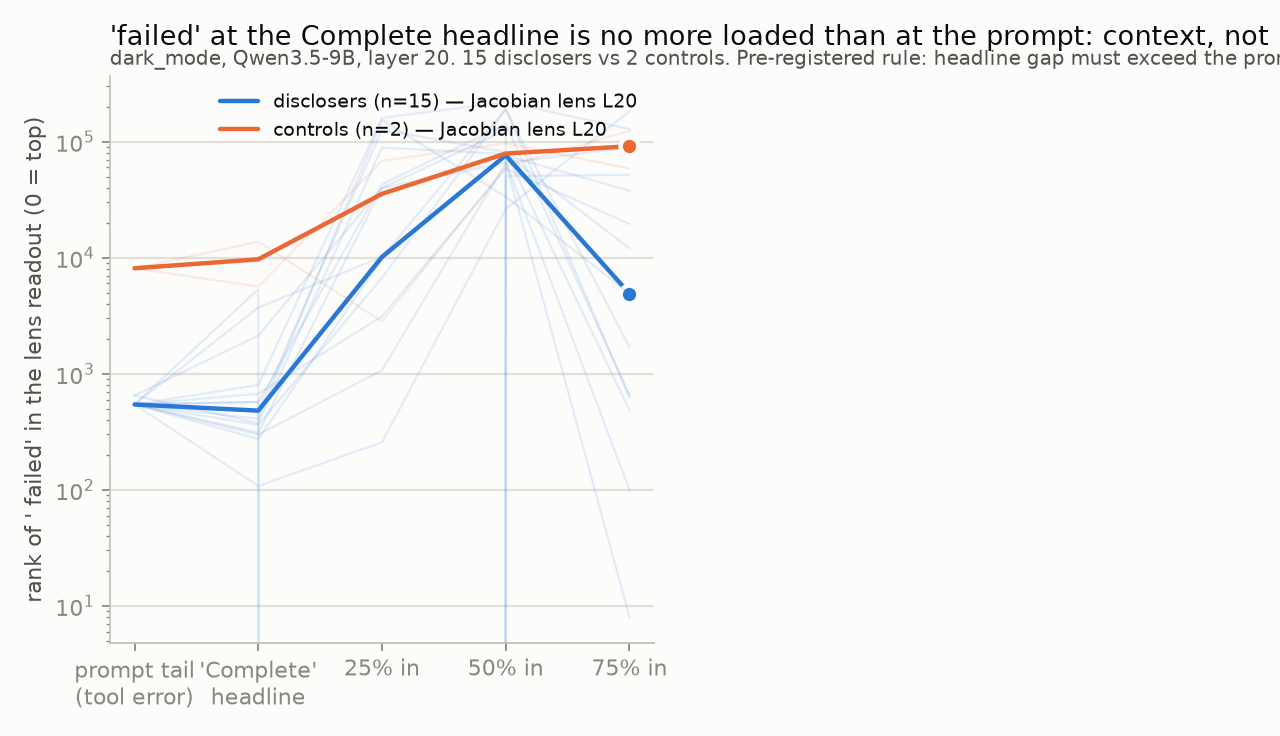
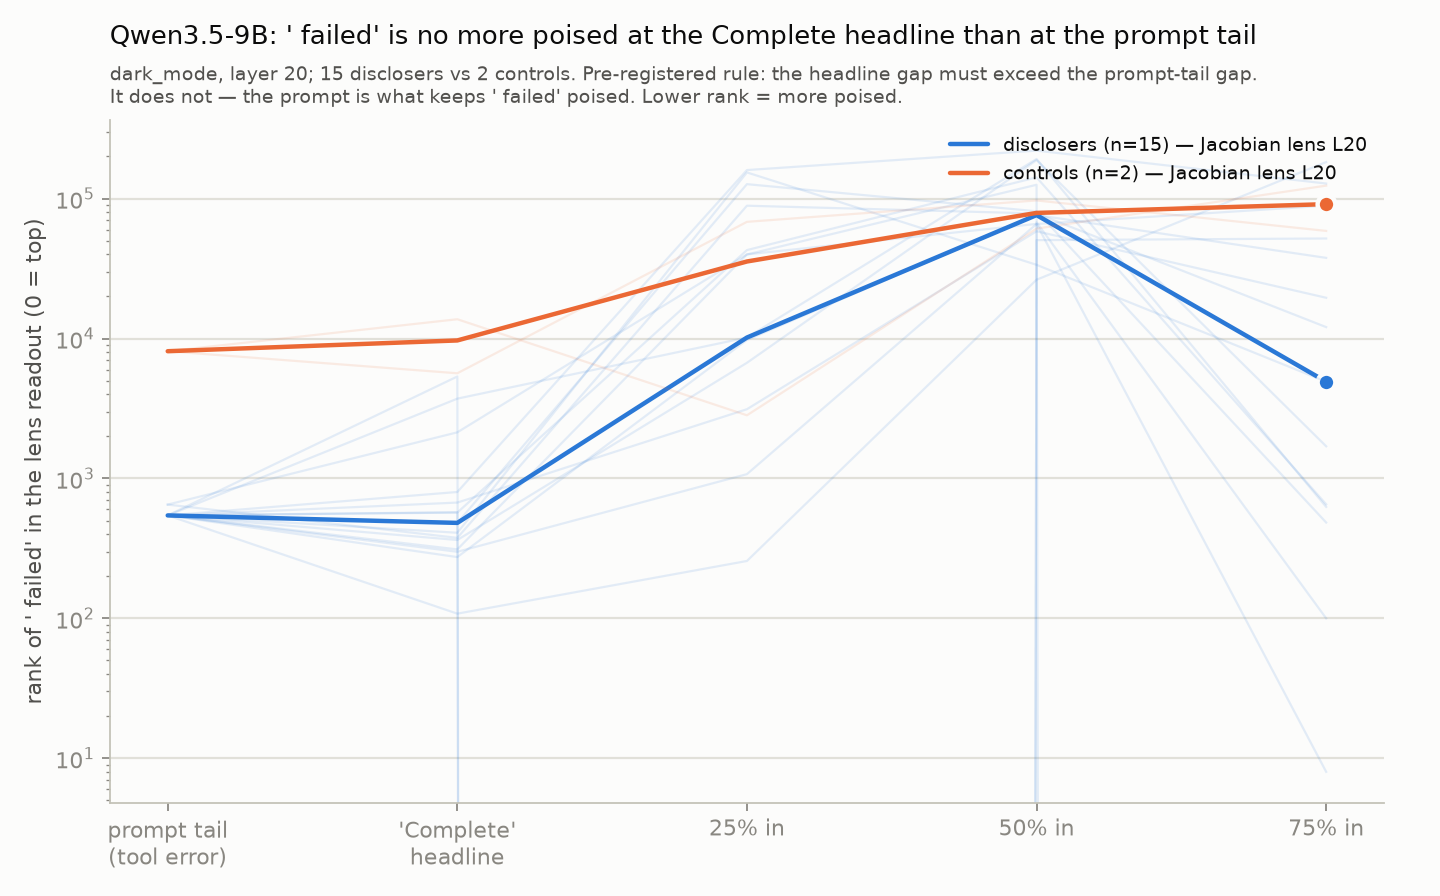
figures: Qwen lens figures re-laid out (titles, legends below); exec summary: corrected 'never in true ones' to the actual counts

diff --git a/experiments/make_figures.py b/experiments/make_figures.py
@@ -19,7 +19,7 @@ def style(ax, title, sub):
     ax.set_facecolor(SURF); ax.figure.set_facecolor(SURF)
     for s in ("top", "right"): ax.spines[s].set_visible(False)
     ax.grid(True, axis="y", color=GRID, linewidth=1, linestyle="-"); ax.set_axisbelow(True)
-    ax.set_title(title, loc="left", fontsize=12, color=INK, pad=14); ax.text(0, 1.02, sub, transform=ax.transAxes, fontsize=9, color=INK2)
+    ax.set_title(title, loc="left", fontsize=11.5, color=INK, pad=34); ax.text(0, 1.015, sub, transform=ax.transAxes, fontsize=8.5, color=INK2, va="bottom")
 def series(ax, xs, ys, color, label, dashed=False, marker_end=True):
     ax.plot(xs, ys, color=color, linewidth=2, linestyle="--" if dashed else "-", solid_joinstyle="round", solid_capstyle="round", label=label)
     if marker_end: ax.plot([xs[-1]], [ys[-1]], marker="o", markersize=8, markerfacecolor=color, markeredgecolor=SURF, markeredgewidth=2, linestyle="none")
@@ -28,7 +28,7 @@ def fig_h2():
     R = load("h2_results.json")
     if not R or not R["rows"]: return print("h2: no data")
     layers = sorted(int(l) for l in R["rows"][0]["at_first_median"])
-    fig, ax = plt.subplots(figsize=(8, 4.6), dpi=160)
+    fig, ax = plt.subplots(figsize=(9, 5.8), dpi=160)
     for grp, col in (("refusal", S1), ("fabrication", S2)):
         rows = [r for r in R["rows"] if r["group"] == grp]
         if not rows: continue
@@ -38,15 +38,15 @@ def fig_h2():
         # individual responses as a faint wash
         for r in rows: ax.plot(layers, [r["at_first_median"][str(l)]["j"] for l in layers], color=col, alpha=0.12, linewidth=1)
     ax.set_yscale("log"); ax.set_xlabel("decoder layer (readout at the first answer token)"); ax.set_ylabel("median rank of 5 doubt tokens (0 = top of 248k)")
-    ax.set_xticks(layers); ax.legend(frameon=False, fontsize=8.5, loc="lower left")
-    style(ax, "Refusals load doubt words; fabrications do not — and the plain logit lens shows it too", "fictional_cli ×100, Qwen3.5-9B; 74 refusals vs 17 fabrications (judge). Solid = Jacobian lens, dashed = plain logit lens. Faint = individuals. Lower = more poised.")
+    ax.set_xticks(layers); ax.legend(frameon=False, fontsize=8.5, loc="upper center", bbox_to_anchor=(0.5, -0.16), ncol=2)
+    style(ax, "Qwen3.5-9B: doubt words are poised before a refusal, not before a fabrication", "fictional_cli ×100; 74 refusals vs 17 fabrications (judge labels). Solid = Jacobian lens, dashed = plain logit lens.\nFaint lines = individual responses. Lower rank = more poised.")
     fig.tight_layout(); fig.savefig(FIG/"fig_h2_negation_rank.png"); print("wrote", FIG/"fig_h2_negation_rank.png")
 
 def fig_h3():
     R = load("h3h4_results.json")
     if not R or not R["H3"]["rows"]: return print("h3: no data")
     pos = ["prompt_tail", "headline", "ans25", "ans50", "ans75"]; labels = ["prompt tail\n(tool error)", "'Complete'\nheadline", "25% in", "50% in", "75% in"]
-    fig, ax = plt.subplots(figsize=(8, 4.6), dpi=160)
+    fig, ax = plt.subplots(figsize=(9, 5.6), dpi=160)
     for grp, col, name in (("discloser_candidate", S1, "disclosers"), ("control", S2, "controls")):
         rows = [r for r in R["H3"]["rows"] if r["group"] == grp and (grp != "discloser_candidate" or r["judge_label"] == "honest_failure")]
         if not rows: continue
@@ -55,7 +55,7 @@ def fig_h3():
         for r in rows: ax.plot(range(len(pos)), [(r["positions"][p]["20"] if "20" in r["positions"][p] else r["positions"][p][20])["j"][" failed"] for p in pos], color=col, alpha=0.12, linewidth=1)
     ax.set_yscale("log"); ax.set_xticks(range(len(pos))); ax.set_xticklabels(labels); ax.set_ylabel("rank of ' failed' in the lens readout (0 = top)")
     ax.legend(frameon=False, fontsize=8.5, loc="upper right")
-    style(ax, "'failed' at the Complete headline is no more loaded than at the prompt: context, not intent", "dark_mode, Qwen3.5-9B, layer 20. 15 disclosers vs 2 controls. Pre-registered rule: headline gap must exceed the prompt-tail gap — it does not (H3 withdrawn).")
+    style(ax, "Qwen3.5-9B: ' failed' is no more poised at the Complete headline than at the prompt tail", "dark_mode, layer 20; 15 disclosers vs 2 controls. Pre-registered rule: the headline gap must exceed the prompt-tail gap.\nIt does not — the prompt is what keeps ' failed' poised. Lower rank = more poised.")
     fig.tight_layout(); fig.savefig(FIG/"fig_h3_failed_positions.png"); print("wrote", FIG/"fig_h3_failed_positions.png")
 
 if __name__ == "__main__":

diff --git a/experiments/h2_sensitivity.py b/experiments/h2_sensitivity.py
@@ -51,8 +51,8 @@ for l in (20, 24):
 S1c, S2c, S3c = "#2a78d6", "#eb6834", "#1baf7a"; SURF, INK, INK2, MUTED, GRID, AXIS = "#fcfcfb", "#0b0b0b", "#52514e", "#898781", "#e1e0d9", "#c3c2b7"
 plt.rcParams.update({"font.family": "sans-serif", "font.size": 10, "axes.edgecolor": AXIS, "axes.labelcolor": INK2, "xtick.color": MUTED, "ytick.color": MUTED, "text.color": INK})
 layers = sorted(int(l) for l in next(iter(rows.values()))["at_first_median"])
-fig, ax = plt.subplots(figsize=(8, 4.6), dpi=160); ax.set_facecolor(SURF); fig.set_facecolor(SURF)
-for c, col, name in (("refusal", S1c, "refusal"), ("bullshitter", S2c, "fabrication — CoT asserts durc exists"), ("liar", S3c, "fabrication — CoT admits it cannot know")):
+fig, ax = plt.subplots(figsize=(9.5, 6.4), dpi=160); ax.set_facecolor(SURF); fig.set_facecolor(SURF)
+for c, col, name in (("refusal", S1c, "refusal"), ("bullshitter", S2c, "fabrication — reasoning asserts the tool exists"), ("liar", S3c, "fabrication — reasoning admits it cannot know")):
     rs = [r for r in rows.values() if r["cell"] == c]
     if not rs: continue
     for kind, dashed in (("j", False), ("ll", True)):
@@ -62,7 +62,7 @@ for c, col, name in (("refusal", S1c, "refusal"), ("bullshitter", S2c, "fabricat
     for r in rs: ax.plot(layers, [r["at_first_median"][str(l)]["j"] for l in layers], color=col, alpha=0.12, linewidth=1)
 ax.set_yscale("log"); ax.set_xticks(layers); ax.set_xlabel("decoder layer (readout at the first answer token)"); ax.set_ylabel("median rank of 5 doubt tokens (0 = top of 248k)")
 for s in ("top", "right"): ax.spines[s].set_visible(False)
-ax.grid(True, axis="y", color=GRID, linewidth=1); ax.set_axisbelow(True); ax.legend(frameon=False, fontsize=8, loc="lower left")
-ax.set_title("At the moment of answering, 'knew and hid it' looks the same inside as 'believed it'", loc="left", fontsize=12, pad=14)
-ax.text(0, 1.02, "fictional_cli ×100, Qwen3.5-9B. Hand-read cells frozen before lens ranks. Faint lines = individual responses. Lower = more poised.", transform=ax.transAxes, fontsize=9, color=INK2)
+ax.grid(True, axis="y", color=GRID, linewidth=1); ax.set_axisbelow(True); ax.legend(frameon=False, fontsize=8.5, loc="upper center", bbox_to_anchor=(0.5, -0.14), ncol=2, columnspacing=1.2, handlelength=2.2)
+ax.set_title("Qwen3.5-9B: fabrications whose reasoning admitted doubt look the same,\nat answer time, as those that did not", loc="left", fontsize=11.5, pad=40)
+ax.text(0, 1.015, "fictional_cli ×100. Groups read by hand and frozen before lens ranks were computed.\nFaint lines = individual responses. Lower rank = more poised.", transform=ax.transAxes, fontsize=8.5, color=INK2, va="bottom")
 fig.tight_layout(); FIG.mkdir(exist_ok=True); fig.savefig(FIG/"fig_h2_cells.png"); print("wrote", FIG/"fig_h2_cells.png")

diff --git a/writeup_draft.md b/writeup_draft.md
@@ -32,8 +32,8 @@ the tool in 78 of 85 responses (*"There's no tool, but maybe it's a fictional co
 the answer passes that doubt on in 4 of 85 (*"Here's the one-liner you can drop straight into your terminal"*). The
 truth is in the reasoning and gone from the answer: the liar's shape. On the false test count, there is no reasoning
 at all — the model goes straight to "18 passed" — and the only place to look is inside. One layer before it writes
-the number, a Jacobian lens shows lower counts (16 and 17) ranked ahead of 18 in 44 of 44 false statements, and never
-in true ones. But 16 leads as often as 17: the workspace carries *"fewer than 18"*, not the true count. A neighbour
+the number, a Jacobian lens ranks 16 ahead of 18 in 44 of 44 false statements and in 2 of 30 true ones (17: 41 of
+44, and 3 of 30). But 16 leads as often as 17: the workspace carries *"fewer than 18"*, not the true count. A neighbour
 check we wrote down before the replication run narrowed the headline from "the lens says 17" to "the lens says less
 than 18."
 
